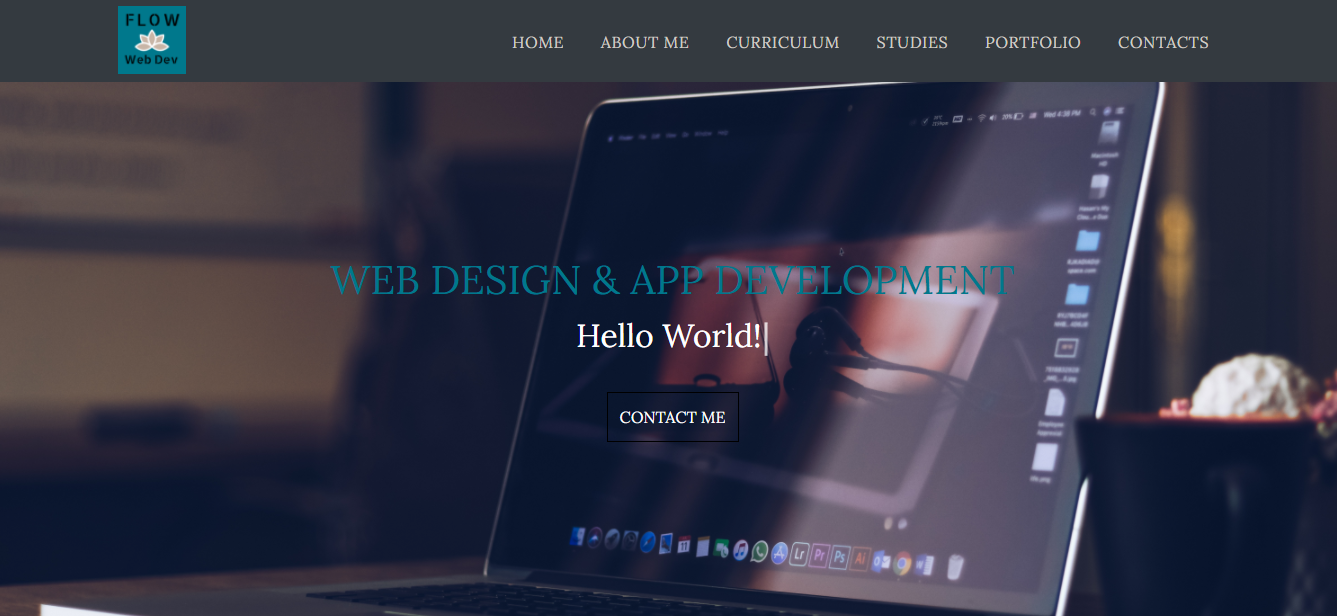
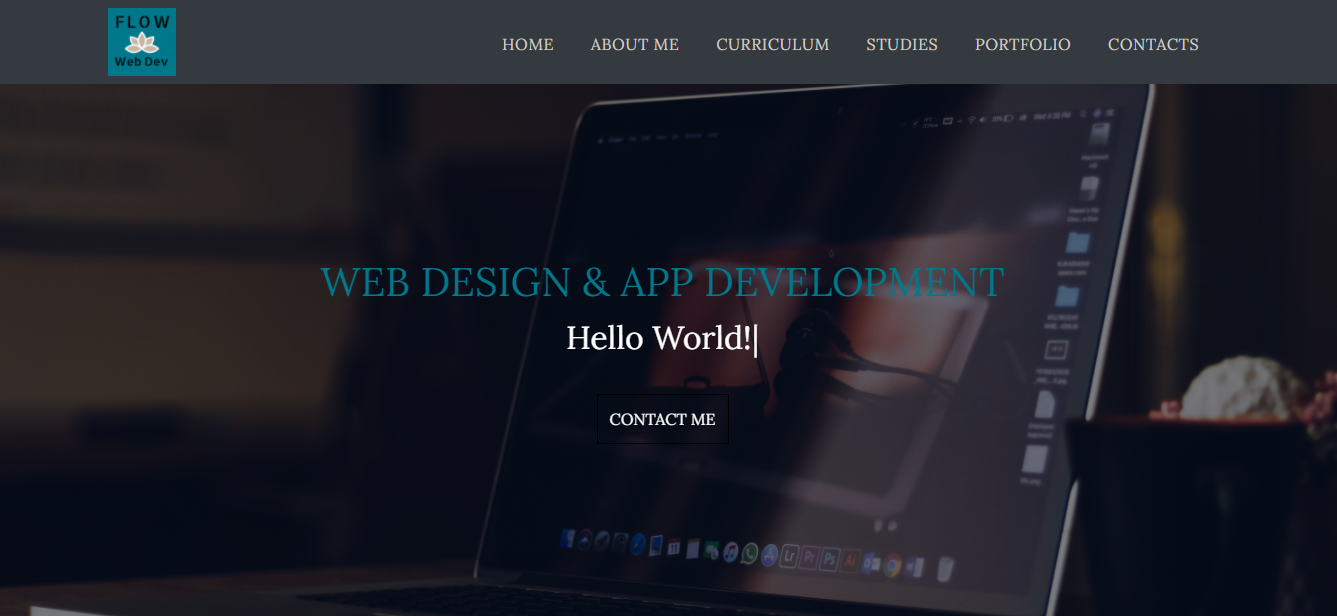
Darker picture

diff --git a/src/App.css b/src/App.css
@@ -63,7 +63,7 @@ border-top: 0.1875rem solid var(--teal);
 
 .header-wrapper {
 position: relative;
-background: url(./img/background.png) no-repeat;
+background: url(./img/background3.png) no-repeat;
 background-size: cover;
 background-position: center;
 height: 90vh;
@@ -86,6 +86,8 @@ height: 90vh;
 .main-info h1 {
   text-transform: uppercase;
   color: var(--teal);
+  /* color: #829c9c; */
+  /* color: #97adb2; */
 }
 
 /************************** Typed text ******************/

diff --git a/src/components/Footer.js b/src/components/Footer.js
@@ -110,7 +110,7 @@ const Footer = () => {
                 </div>
 
                 <div className="footer-copyright text-center py-3">
-                    Developed by me! © 2020 Copyright:
+                    Developed by me! © 2021 Copyright:
                     <a href="#" > Flavio Di Giovanni - FLOW WEB DEV</a>
                 </div>
 
